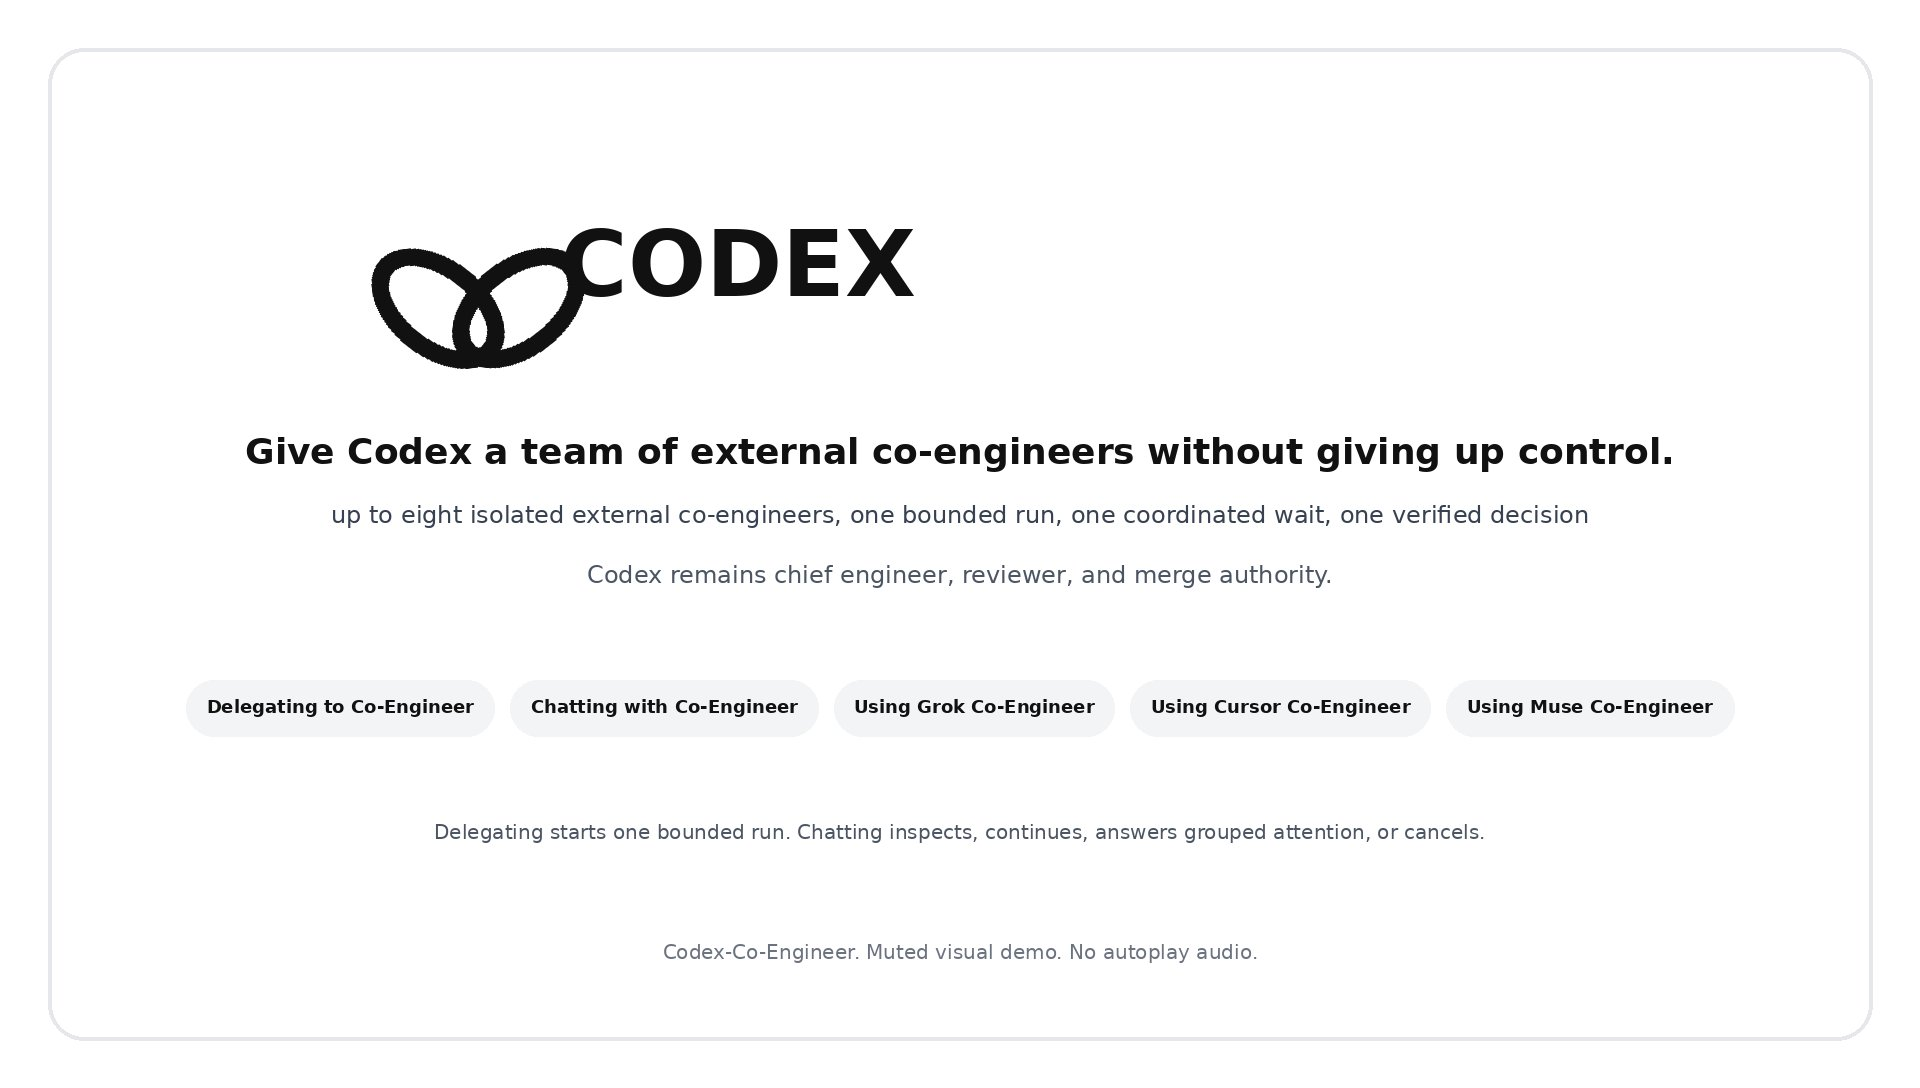
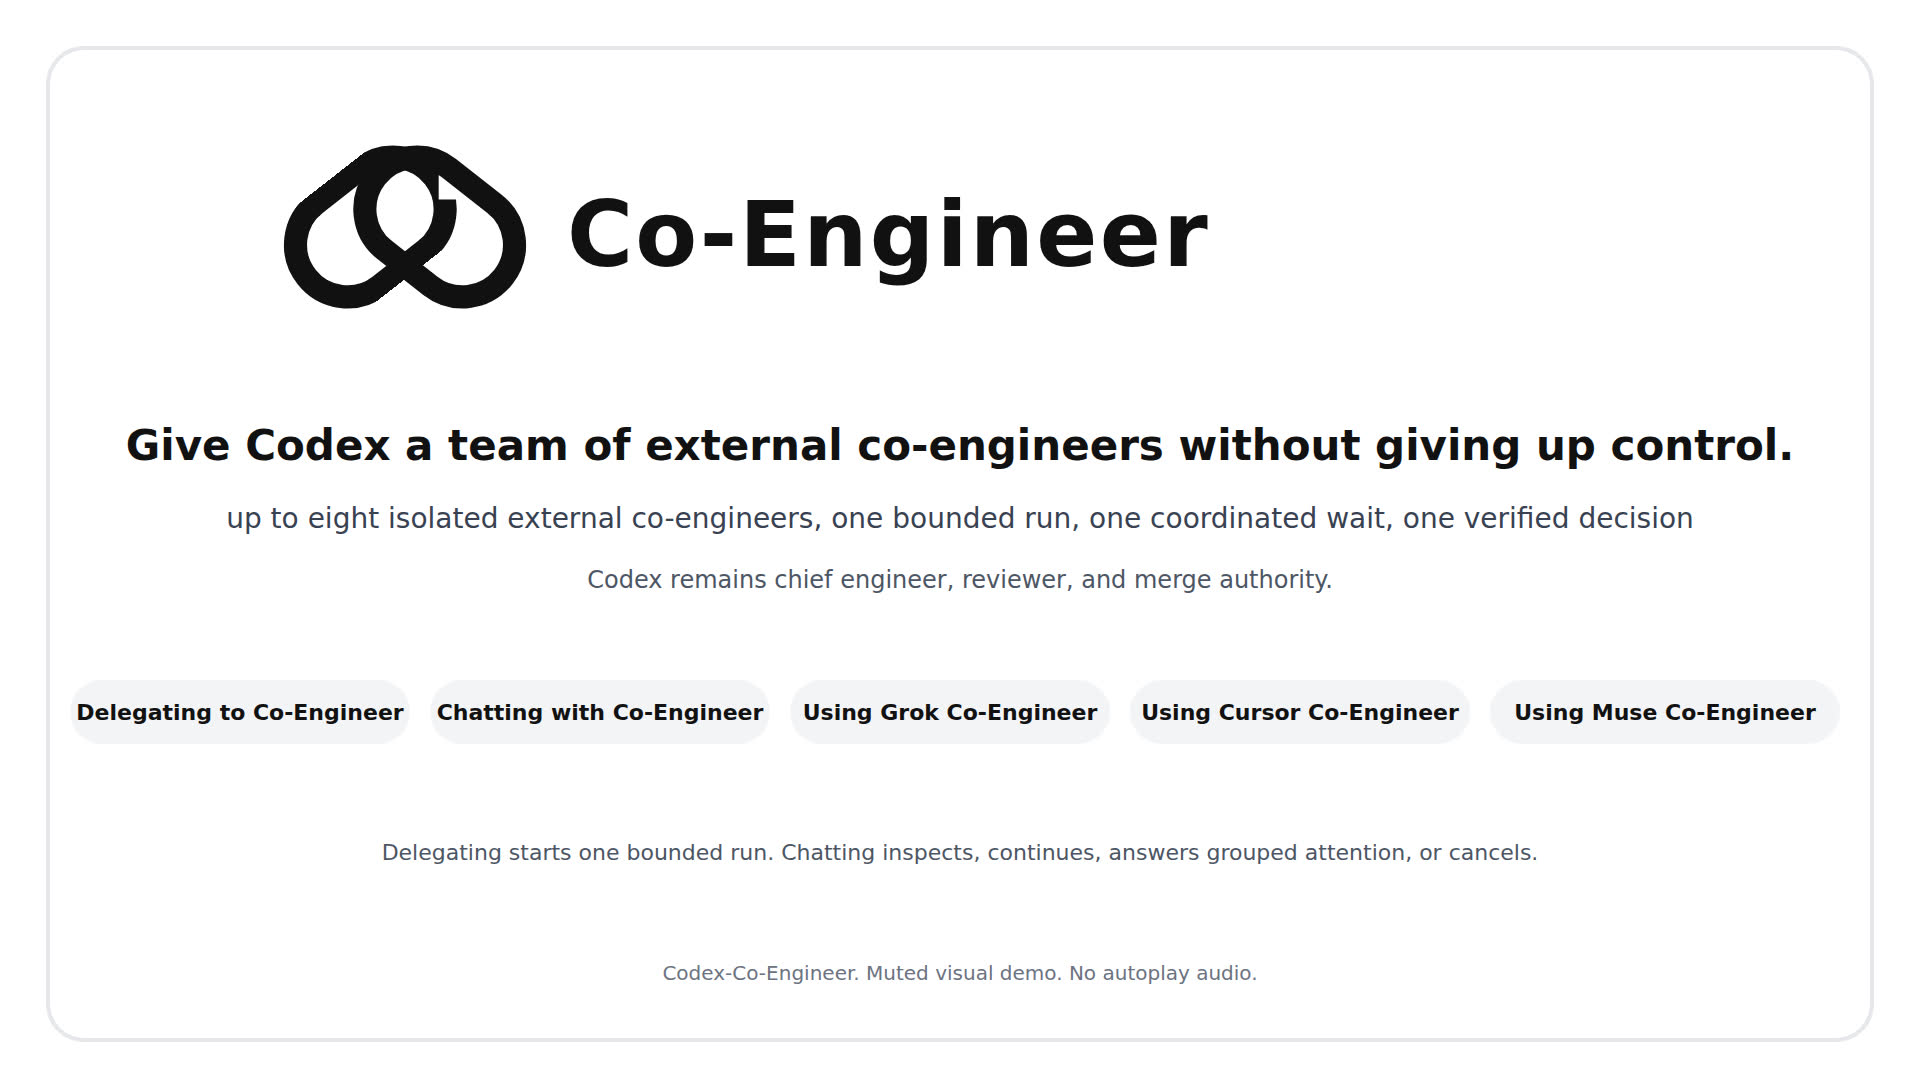
fix(ux): align Co-Engineer visual demo identity

diff --git a/docs/brand-asset-provenance.md b/docs/brand-asset-provenance.md
@@ -4,8 +4,9 @@ Give Codex a team of external co-engineers without giving up control.
 
 This is the UX-05 record for bounded Co-Engineer visual assets. It freezes
 source identity, derivation commands, hashes, and the GitHub/README-compatible
-relative-path contract. It does not change README, runtime, skills, package
-version, changelog, or release surfaces. Plugin and marketplace version stay
+relative-path contract. README may embed these accepted derivatives; this
+inventory does not change runtime, skills, package version, changelog, or
+release surfaces. Plugin and marketplace version stay
 `3.3.0` until REL-01.
 
 The honest product claim is:
@@ -95,7 +96,10 @@ rasters.
     "ffmpeg -y -i docs/assets/co-engineer-3.4.0/sources/source-a.mp4 -map 0:v:0 -an -c:v libx264 -pix_fmt yuv420p -profile:v high -level 4.0 -vf 'scale=960:544:flags=lanczos' -r 24 -crf 32 -preset slow -movflags +faststart -map_metadata -1 plugins/codex-co-engineer/assets/experience/hero-muted.mp4",
     "ffmpeg -y -i docs/assets/co-engineer-3.4.0/sources/source-a.mp4 -map 0:v:0 -an -c:v libvpx-vp9 -pix_fmt yuv420p -b:v 0 -crf 38 -row-mt 1 -deadline good -vf 'scale=960:544:flags=lanczos' -r 24 -map_metadata -1 plugins/codex-co-engineer/assets/experience/hero-muted.webm",
     "ffmpeg -y -ss 0.20 -i docs/assets/co-engineer-3.4.0/sources/source-a.mp4 -map 0:v:0 -frames:v 1 -q:v 5 docs/assets/co-engineer-3.4.0/frame-poster.jpg",
-    "ffmpeg -y -ss 0.20 -i docs/assets/co-engineer-3.4.0/sources/source-a.mp4 -map 0:v:0 -frames:v 1 -q:v 6 -vf 'scale=960:544:flags=lanczos' plugins/codex-co-engineer/assets/experience/frame-poster.jpg"
+    "ffmpeg -y -ss 0.20 -i docs/assets/co-engineer-3.4.0/sources/source-a.mp4 -map 0:v:0 -frames:v 1 -q:v 6 -vf 'scale=960:544:flags=lanczos' plugins/codex-co-engineer/assets/experience/frame-poster.jpg",
+    "Playwright Chromium renders docs/assets/co-engineer-3.4.0/poster.svg at an exact 1920x1088 viewport to a temporary PNG",
+    "ffmpeg -y -i <rendered-poster.png> -frames:v 1 -q:v 5 docs/assets/co-engineer-3.4.0/poster.jpg",
+    "ffmpeg -y -i <rendered-poster.png> -vf 'scale=960:544:flags=lanczos' -frames:v 1 -q:v 3 plugins/codex-co-engineer/assets/experience/poster.jpg"
   ],
   "github_readme_contract": [
     "docs/assets/co-engineer-3.4.0/poster.jpg",
@@ -182,8 +186,8 @@ rasters.
     {
       "path": "docs/assets/co-engineer-3.4.0/poster.jpg",
       "role": "docs-readable-poster",
[1 lines of base64/hex data omitted]
-      "bytes": 127183,
[1 lines of base64/hex data omitted]
+      "bytes": 158143,
       "width": 1920,
       "height": 1088,
       "codec": "jpeg",
@@ -193,8 +197,8 @@ rasters.
     {
       "path": "docs/assets/co-engineer-3.4.0/poster.svg",
       "role": "docs-readable-poster-vector",
[1 lines of base64/hex data omitted]
-      "bytes": 3608,
[1 lines of base64/hex data omitted]
+      "bytes": 3613,
       "width": 1920,
       "height": 1088,
       "codec": "svg"
@@ -245,8 +249,8 @@ rasters.
     {
       "path": "plugins/codex-co-engineer/assets/experience/poster.jpg",
       "role": "plugin-readable-poster",
[1 lines of base64/hex data omitted]
-      "bytes": 54109,
[1 lines of base64/hex data omitted]
+      "bytes": 65939,
       "width": 960,
       "height": 544,
       "codec": "jpeg",
@@ -256,8 +260,8 @@ rasters.
     {
       "path": "plugins/codex-co-engineer/assets/experience/poster.svg",
       "role": "plugin-readable-poster-vector",
[1 lines of base64/hex data omitted]
-      "bytes": 3608,
[1 lines of base64/hex data omitted]
+      "bytes": 3613,
       "codec": "svg"
     },
     {
@@ -273,8 +277,8 @@ rasters.
 
 ## GitHub and README relative contract
 
-This slice does not edit `README.md`. Later README work may cite these
-exact relative paths:
+The README cites these exact relative paths and keeps the readable poster as
+the GitHub, reduced-motion, and embedded-playback fallback:
 
 ```markdown
 ![Give Codex a team of external co-engineers without giving up control.](docs/assets/co-engineer-3.4.0/poster.jpg)

diff --git a/README.md b/README.md
@@ -32,8 +32,9 @@ notes: [docs/releases/v3.3.0.md](docs/releases/v3.3.0.md).
 
 ## Visual demo
 
-The current visual demo uses the accepted 3.4.0 poster and muted hero.
-There is no autoplay audio.
+The current visual demo uses the accepted 3.4.0 Co-Engineer poster and
+muted hero. There is no autoplay audio. The poster is the static,
+reduced-motion, and GitHub fallback.
 
 ![Give Codex a team of external co-engineers without giving up control.](docs/assets/co-engineer-3.4.0/poster.jpg)
 
@@ -41,6 +42,10 @@ There is no autoplay audio.
   <source src="docs/assets/co-engineer-3.4.0/hero-muted.mp4" type="video/mp4">
   <source src="docs/assets/co-engineer-3.4.0/hero-muted.webm" type="video/webm">
 </video>
+
+If embedded playback is unavailable, open the muted
+[MP4](docs/assets/co-engineer-3.4.0/hero-muted.mp4) or
+[WebM](docs/assets/co-engineer-3.4.0/hero-muted.webm) directly.
 
 ## First 60 seconds
 
